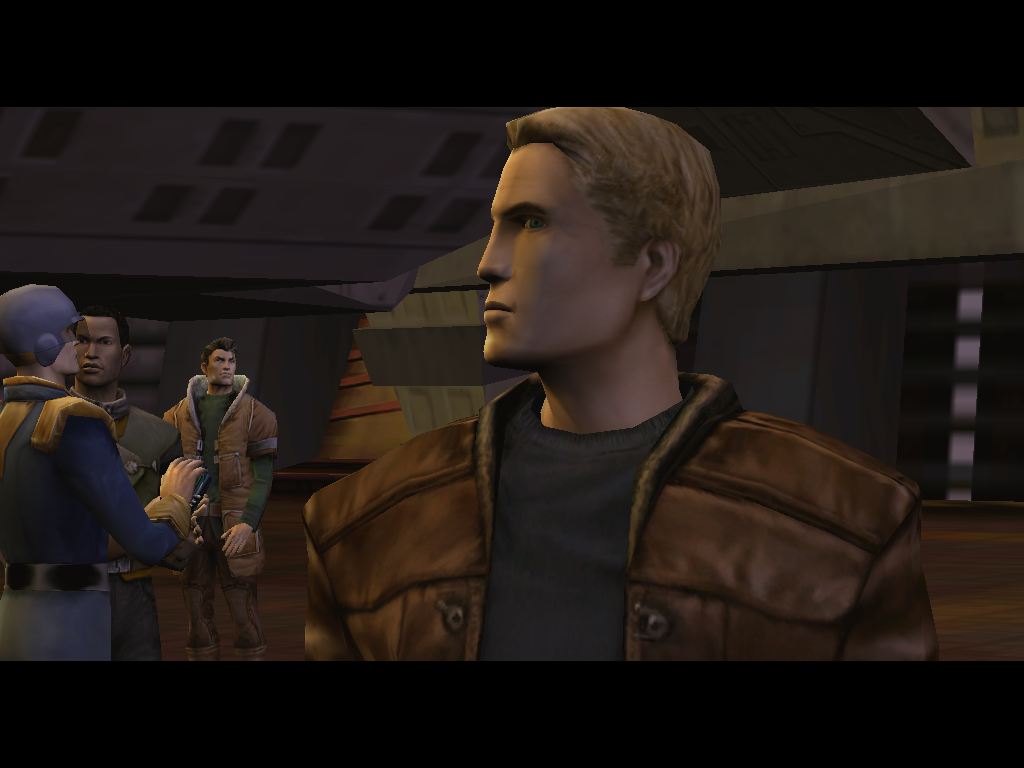
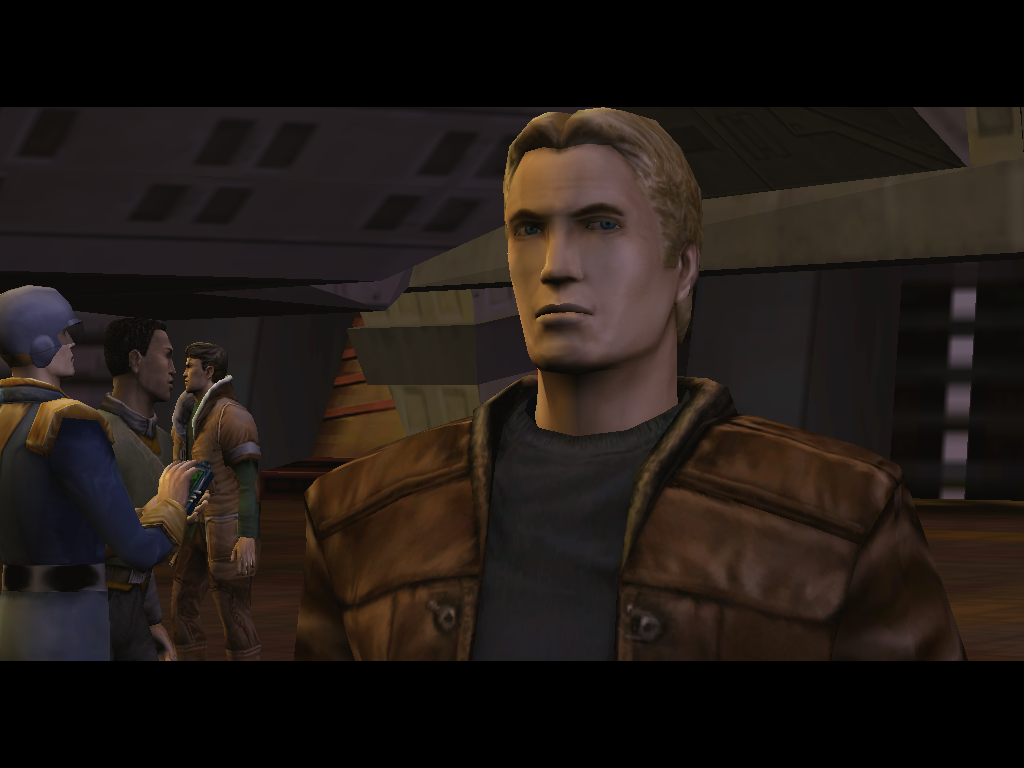
Fixed readme and a better cutscene frame.

diff --git a/README.md b/README.md
@@ -14,11 +14,11 @@ Frames drawn by this library from a retail install, at the game's 1024×768.
 
 | | |
 | --- | --- |
-| ![The main menu's planet chunks scene](docs/images/menu-planetchunks.png) | ![Trent landing on Manhattan, from the opening cutscene](docs/images/cutscene-s002xe.png) |
-| Main menu, `intro_planetchunks.thn` | Opening cutscene on Manhattan, `s002xe` at 0:20 |
-| ![Planet Manhattan and its station in New York](docs/images/system-li01.png) | ![Freeport 9 in the clouds of Omicron Gamma](docs/images/system-ew01.png) |
-| Fort Bush, New York (LI01) | Freeport 9, Omicron Gamma (EW01) |
-| ![Two suns and their planets inside a nebula](docs/images/system-ew06.png) | ![Juni and the Liberty diplomat at a table in Manhattan's bar, Trent standing](docs/images/cutscene-s004x.png) |
+| ![The main menu's planet chunks scene](docs/images/menu-planetchunks.png) | ![Trent on Manhattan, three men talking behind him, from the opening cutscene](docs/images/cutscene-s002xe.png) |
+| Main menu, `intro_planetchunks.thn` | Opening cutscene on Manhattan, `s002xe` at 0:20.8 |
+| ![Planet Manhattan and its station in New York](docs/images/system-li01.png) | ![Freeport 10, Tau-37](docs/images/system-ew01.png) |
+| Fort Bush, New York (LI01) | Freeport 10, Tau-37 (EW01) |
+| ![A strange place far away](docs/images/system-ew06.png) | ![Juni and the Liberty diplomat at a table in Manhattan's bar, Trent standing](docs/images/cutscene-s004x.png) |
 | Unknown System (EW06) | Juni and the diplomat in Manhattan's bar, `s004x` at 0:20.5 |
 
 ## Status
